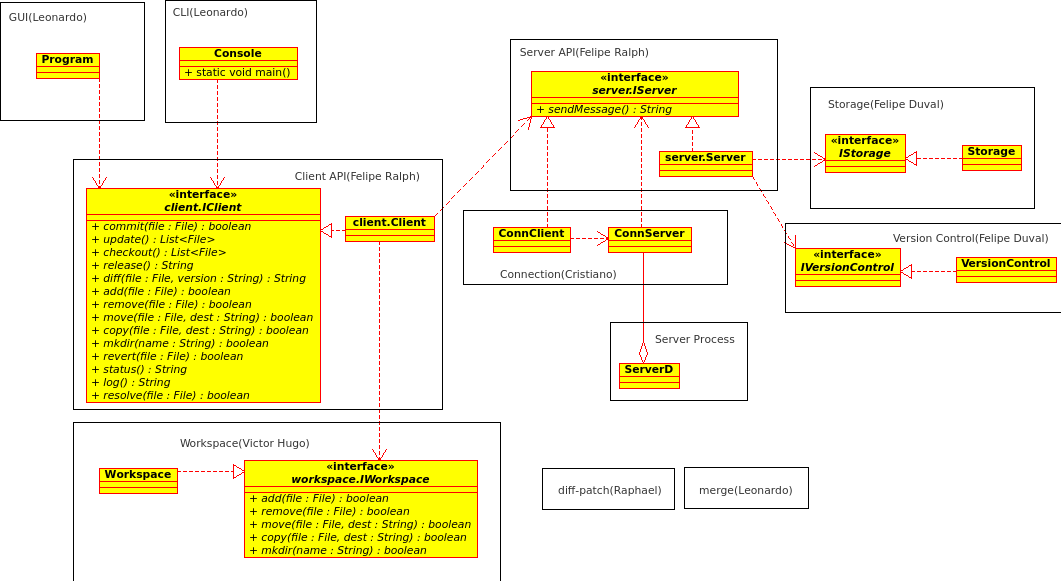
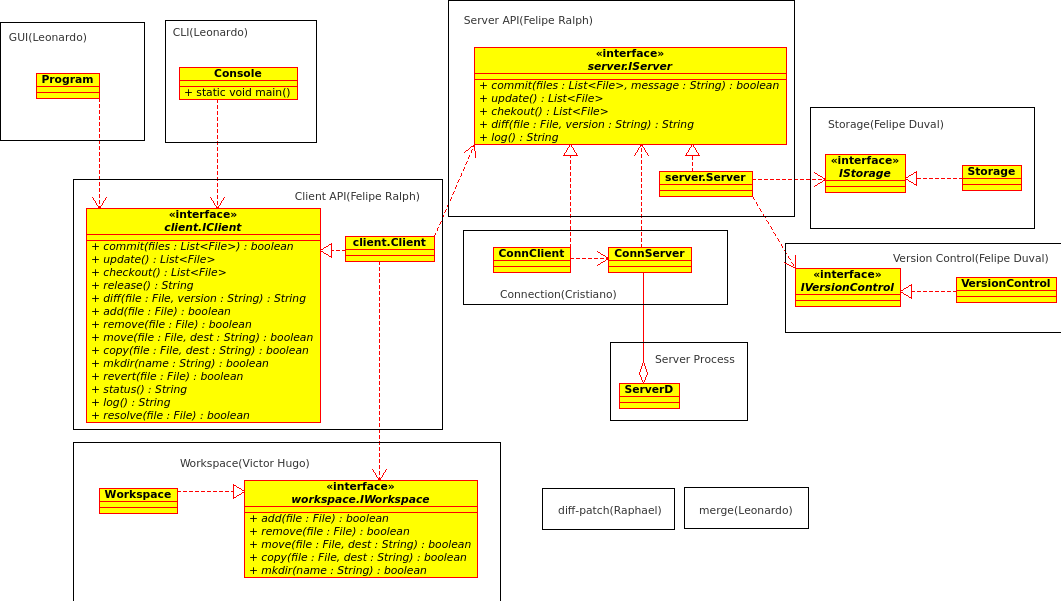
Atualizacao: client, server e modelo

diff --git a/src/main/java/br/uff/ic/labgc/client/Client.java b/src/main/java/br/uff/ic/labgc/client/Client.java
@@ -17,9 +17,9 @@ public class Client implements IClient{
     
     private IServer server;
     
-    
-    
-    public boolean commit(File file, String message) {
+    //comandos para o servidor
+
+    public boolean commit(List<File> files, String message) {
         throw new UnsupportedOperationException("Not supported yet.");
     }
 
@@ -31,18 +31,17 @@ public class Client implements IClient{
         throw new UnsupportedOperationException("Not supported yet.");
     }
 
-    public boolean release() {
-        throw new UnsupportedOperationException("Not supported yet.");
-    }
-
     public String diff(File file, String version) {
         throw new UnsupportedOperationException("Not supported yet.");
     }
 
-    public boolean add(File file) {
+    public String log() {
         throw new UnsupportedOperationException("Not supported yet.");
     }
-
+    
+    
+    //comandos similar ao OS - workspace
+    
     public boolean remove(File file) {
         throw new UnsupportedOperationException("Not supported yet.");
     }
@@ -58,6 +57,12 @@ public class Client implements IClient{
     public boolean mkdir(String name) {
         throw new UnsupportedOperationException("Not supported yet.");
     }
+    
+    //comandos de diretorio
+    
+    public boolean add(File file) {
+        throw new UnsupportedOperationException("Not supported yet.");
+    }
 
     public boolean revert(File file) {
         throw new UnsupportedOperationException("Not supported yet.");
@@ -67,13 +72,15 @@ public class Client implements IClient{
         throw new UnsupportedOperationException("Not supported yet.");
     }
 
-    public String log() {
+    public boolean release() {
         throw new UnsupportedOperationException("Not supported yet.");
     }
 
     public boolean resolve(File file) {
         throw new UnsupportedOperationException("Not supported yet.");
     }
+    
+    
     
     
 }

diff --git a/src/main/java/br/uff/ic/labgc/server/Server.java b/src/main/java/br/uff/ic/labgc/server/Server.java
@@ -4,14 +4,35 @@
  */
 package br.uff.ic.labgc.server;
 
+import java.io.File;
+import java.util.List;
+
 /**
  *
  * @author Felipe R
  */
 public class Server implements IServer{
 
-    public String sendMessage(String msg) {
+    public boolean commit(List<File> file, String message) {
         throw new UnsupportedOperationException("Not supported yet.");
     }
+
+    public List<File> update() {
+        throw new UnsupportedOperationException("Not supported yet.");
+    }
+
+    public List<File> checkout() {
+        throw new UnsupportedOperationException("Not supported yet.");
+    }
+
+    public String diff(File file, String version) {
+        throw new UnsupportedOperationException("Not supported yet.");
+    }
+
+    public String log() {
+        throw new UnsupportedOperationException("Not supported yet.");
+    }
+
+    
     
 }

diff --git a/src/main/java/br/uff/ic/labgc/client/IClient.java b/src/main/java/br/uff/ic/labgc/client/IClient.java
@@ -13,17 +13,16 @@ import java.util.*;
  */
 public interface IClient {
     
-    //comandos basicos
+    //comandos server
     
-    boolean commit(File file, String message);
-    boolean release();
+    boolean commit(List<File> files, String message);
     List<File> update();
     List<File> checkout();
     String diff(File file, String version);
+    String log();
     
     //comandos similares ao OS
     
-    boolean add(File file);
     boolean remove(File file);
     boolean move(File file, String dest);
     boolean copy(File file, String dest);
@@ -31,9 +30,10 @@ public interface IClient {
     
     //comandos do diretorio
     
+    boolean add(File file);
     boolean revert(File file);
     String status();
-    String log();
+    boolean release();
     boolean resolve(File file);
     
 }

diff --git a/src/main/java/br/uff/ic/labgc/server/IServer.java b/src/main/java/br/uff/ic/labgc/server/IServer.java
@@ -4,11 +4,18 @@
  */
 package br.uff.ic.labgc.server;
 
+import java.io.*;
+import java.util.*;
+
 /**
  *
  * @author Felipe R
  */
 public interface IServer {
-    String sendMessage(String msg);
+    boolean commit(List<File> file, String message);
+    List<File> update();
+    List<File> checkout();
+    String diff(File file, String version);
+    String log();
     
 }
